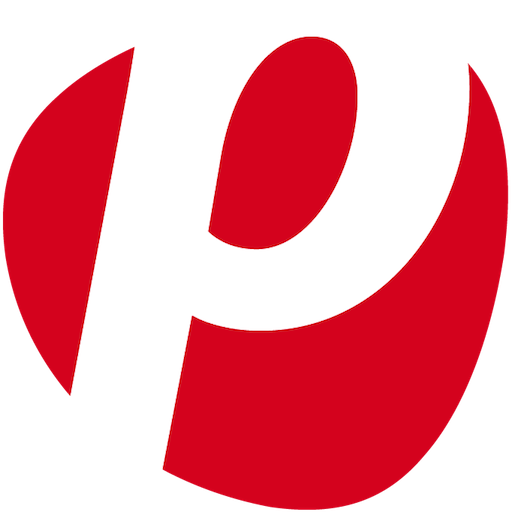
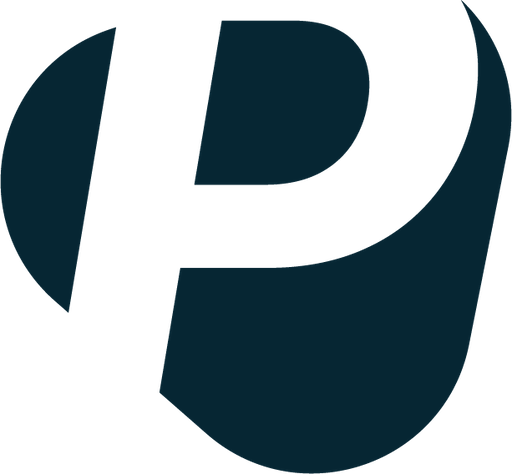
Updated branding to PlentyONE

diff --git a/README.md b/README.md
@@ -1,22 +1,22 @@
 ![plentymarkets Logo](http://www.plentymarkets.eu/layout/pm/images/logo/plentymarkets-logo.jpg)
 
-# Amazon plugin for plentymarkets 7.x
+# Amazon plugin for PlentyONE
 
-This is the Amazon plugin developed by plentymarkets. Amazon is already integrated in your plentymarkets 7 system.
+This is the Amazon plugin developed by PlentyONE. Amazon is already integrated in your PlentyONE system.
 
 ## Requirements
 
-This is a plugin for [plentymarkets 7](https://www.plentymarkets.com).
+This is a plugin for [PlentyONE](https://www.plentyone.com/).
 
 ## Installing
 
-For detailed information about plugin provisioning refer to [plentymarkets developers](https://developers.plentymarkets.com/dev-doc/basics#plugin-provisioning).
+For detailed information about plugin provisioning refer to [PlentyONE developers](https://developers.plentymarkets.com/dev-doc/basics#plugin-provisioning).
 
 ## Plugin documentation
 
-- Learn how to create your [first plentymarkets plugin](https://developers.plentymarkets.com/tutorials/helloworld)
-- Overview of plentymarkets [plugin interfaces](https://developers.plentymarkets.com/dev-doc/basics#guide-interface)
-- The plentymarkets [REST API](https://developers.plentymarkets.com/rest-doc/introduction)
+- Learn how to create your [first PlentyONE plugin](https://developers.plentymarkets.com/tutorials/helloworld)
+- Overview of PlentyONE [plugin interfaces](https://developers.plentymarkets.com/dev-doc/basics#guide-interface)
+- The PlentyONE [REST API]( https://developers.plentymarkets.com/en-gb/plentymarkets-rest-api/index.html)
 
 ## Join our community
 

diff --git a/LICENSE.md b/LICENSE.md
@@ -1,6 +1,6 @@
-plentymarkets plugin Amazon
+PlentyONE plugin Amazon
 
-Copyright © 2018 plentymarkets GmbH
+Copyright © 2018-2025 plentyONE GmbH
 
 According to our dual licensing model, this program can be used either
 under the terms of the GNU Affero General Public License, version 3,
@@ -11,7 +11,7 @@ but WITHOUT ANY WARRANTY; without even the implied warranty of
 MERCHANTABILITY or FITNESS FOR A PARTICULAR PURPOSE. See the
 GNU Affero General Public License for more details.
 
-"plentymarkets" is a registered trademark of plentymarkets GmbH.
+"PlentyONE" is a registered trademark of plentyONE GmbH.
 The licensing of the program under the AGPLv3 does not imply a
 trademark license. Therefore any rights, titles and interests in the
 above trademarks remain entirely with the trademark owners.

diff --git a/meta/documents/support_contact_de.md b/meta/documents/support_contact_de.md
@@ -1,11 +1,11 @@
 ## Webseite
- 
-<a href="https://www.plentymarkets.eu/" target="_blank">plentymarkets.eu</a>
- 
-## E-Mail
- 
-<a href="mailto:support@plentymarkets.com">support@plentymarkets.com</a>
+
+<a href="https://www.plentyone.com/de/" target="_blank">PlentyONE Homepage</a>
+
+## Support 
+
+<a href="https://www.plentyone.com/de/support-center">PlentyONE Support Center</a>
 
 ## Handbuch
 
-<a href="https://knowledge.plentymarkets.com/omni-channel/multi-channel/amazon/amazon-einrichten" target="_blank">Knowledge</a>
+<a href="https://knowledge.plentymarkets.com/de-de/manual/main/maerkte/amazon-einrichten.html" target="_blank">Knowledge</a>

diff --git a/meta/documents/support_contact_en.md b/meta/documents/support_contact_en.md
@@ -1,11 +1,11 @@
 ## Web page
- 
-<a href="https://www.plentymarkets.co.uk/" target="_blank">plentymarkets.co.uk</a>
- 
-## Email
- 
-<a href="mailto:support@plentymarkets.com">support@plentymarkets.com</a>
+
+<a href="https://www.plentyone.com/" target="_blank">PlentyONE Homepage</a>
+
+## Support 
+
+<a href="https://www.plentyone.com/support-centre">PlentyONE Support Center</a>
 
 ## Manual
 
-<a href="https://knowledge.plentymarkets.com/en/omni-channel/multi-channel/amazon" target="_blank">Knowledge</a>
+<a href="https://knowledge.plentymarkets.com/en-gb/manual/main/markets/amazon-setup.html" target="_blank">Knowledge</a>
